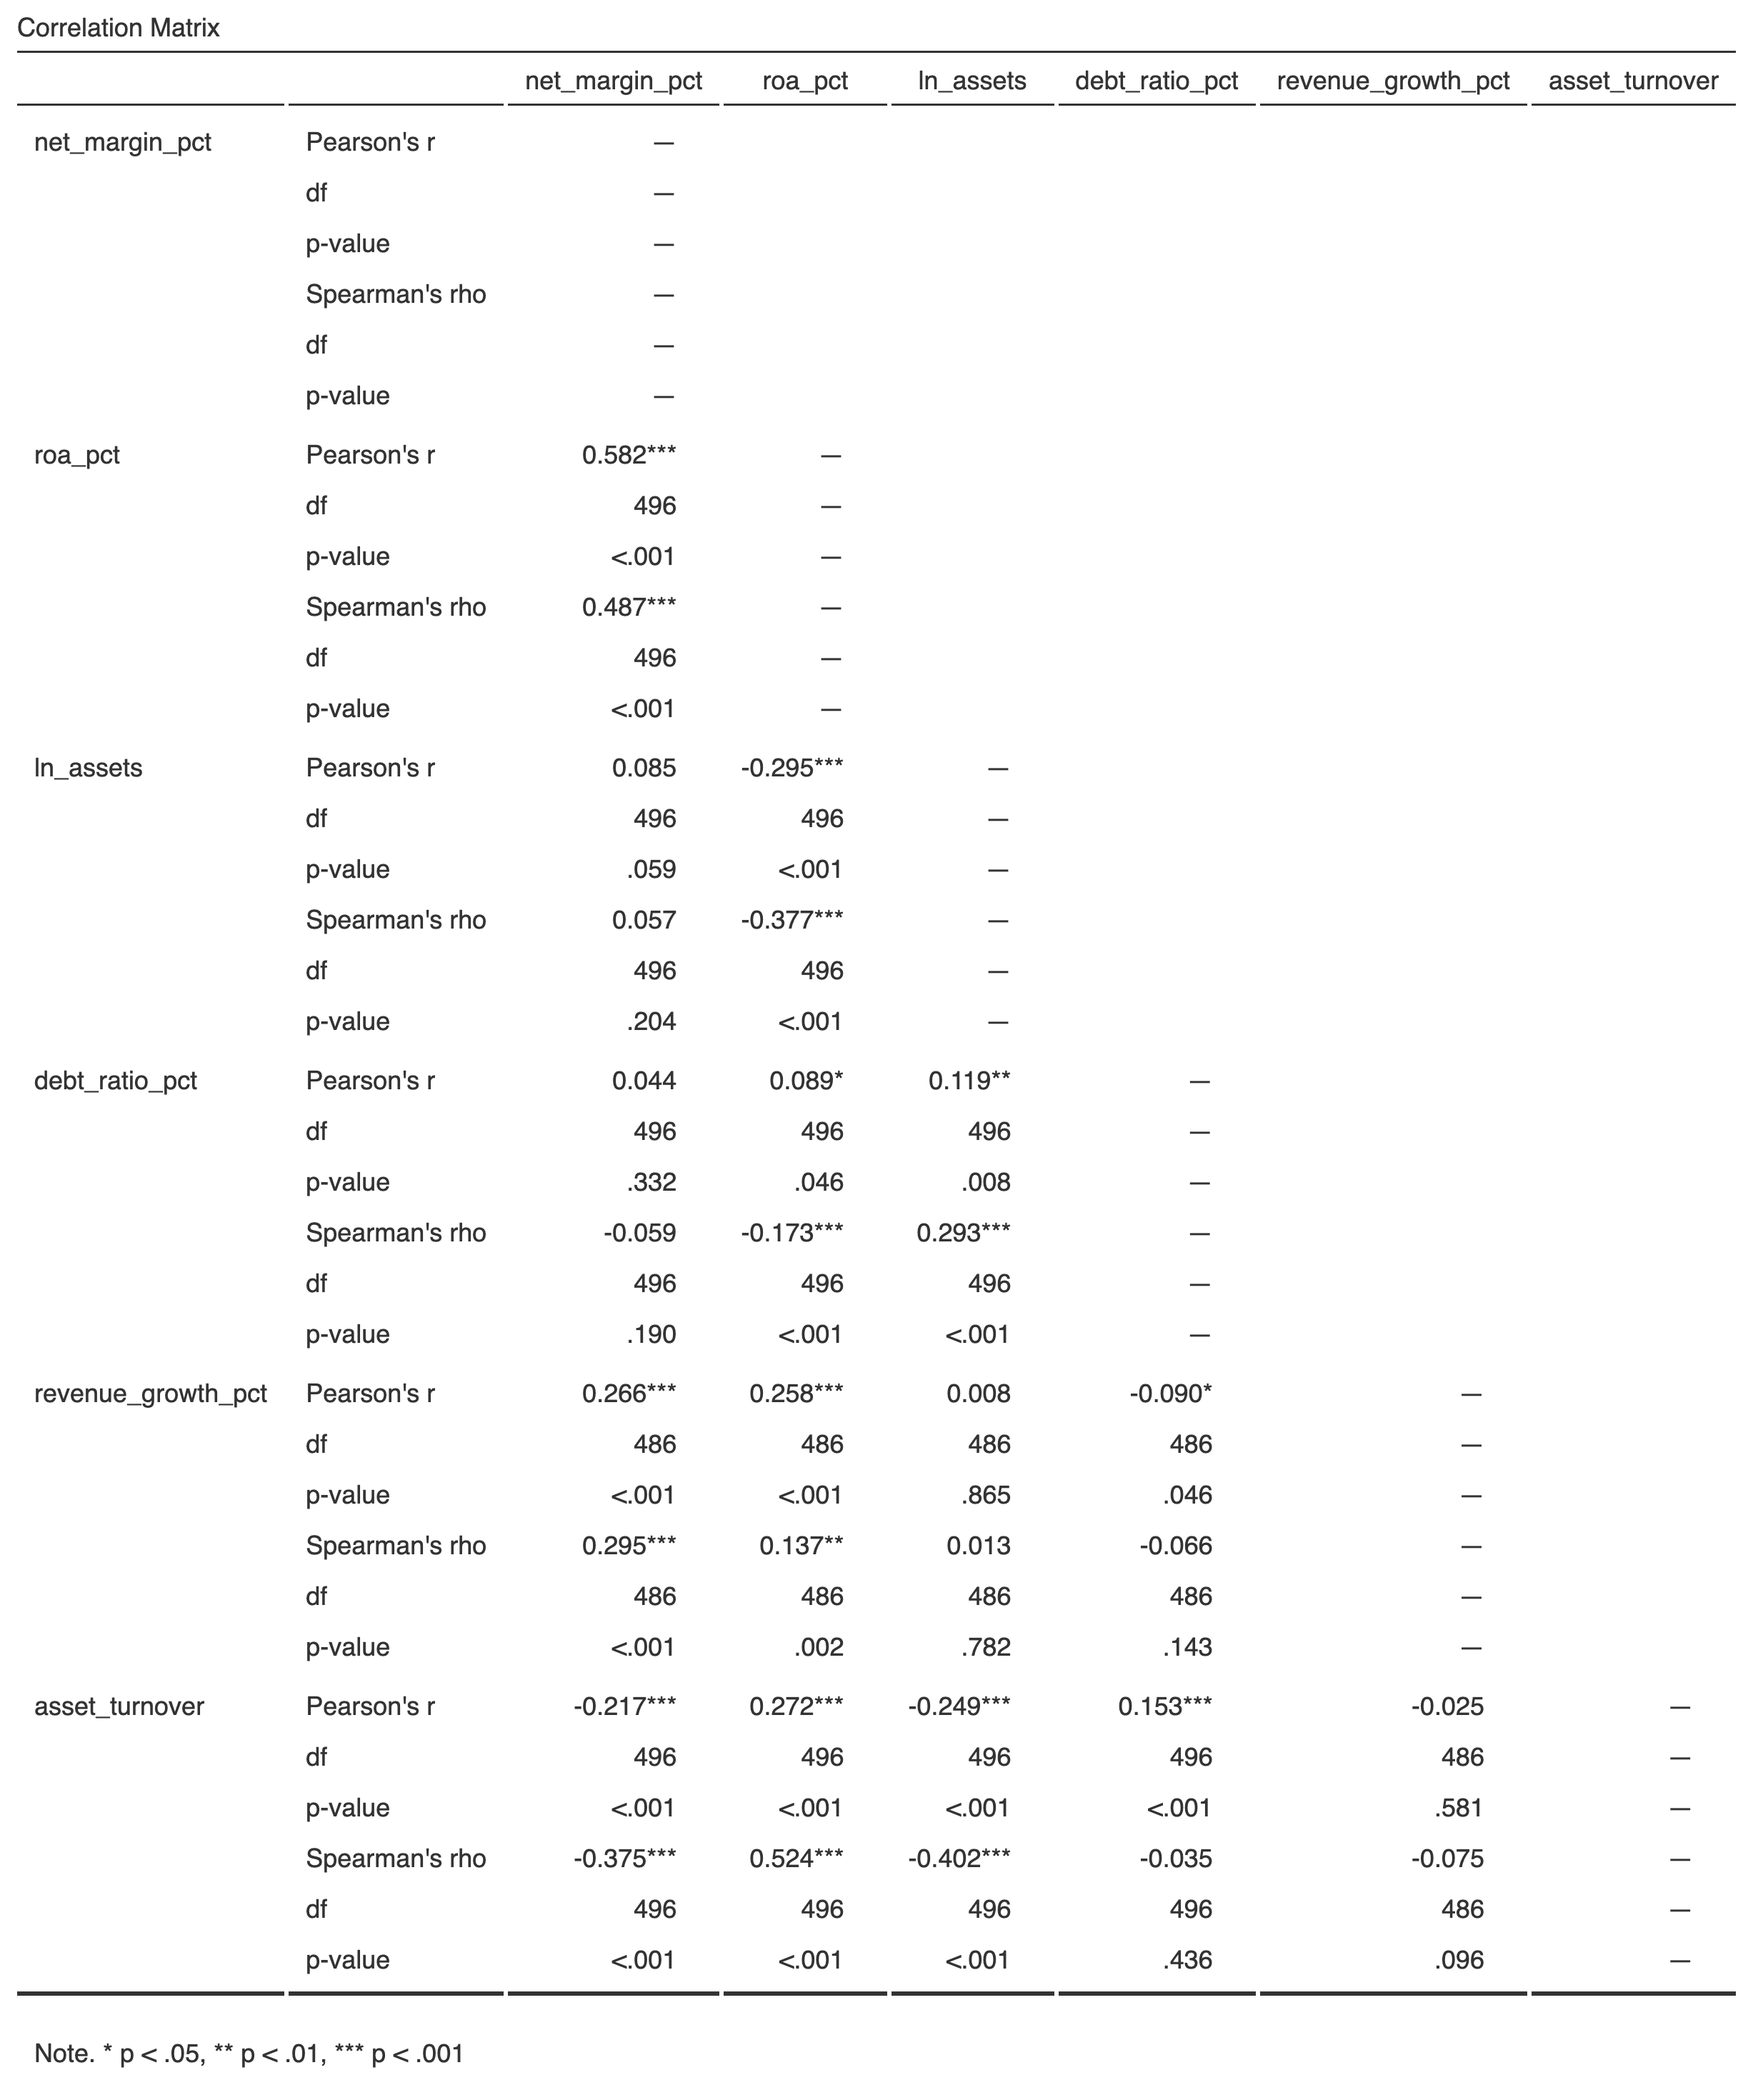
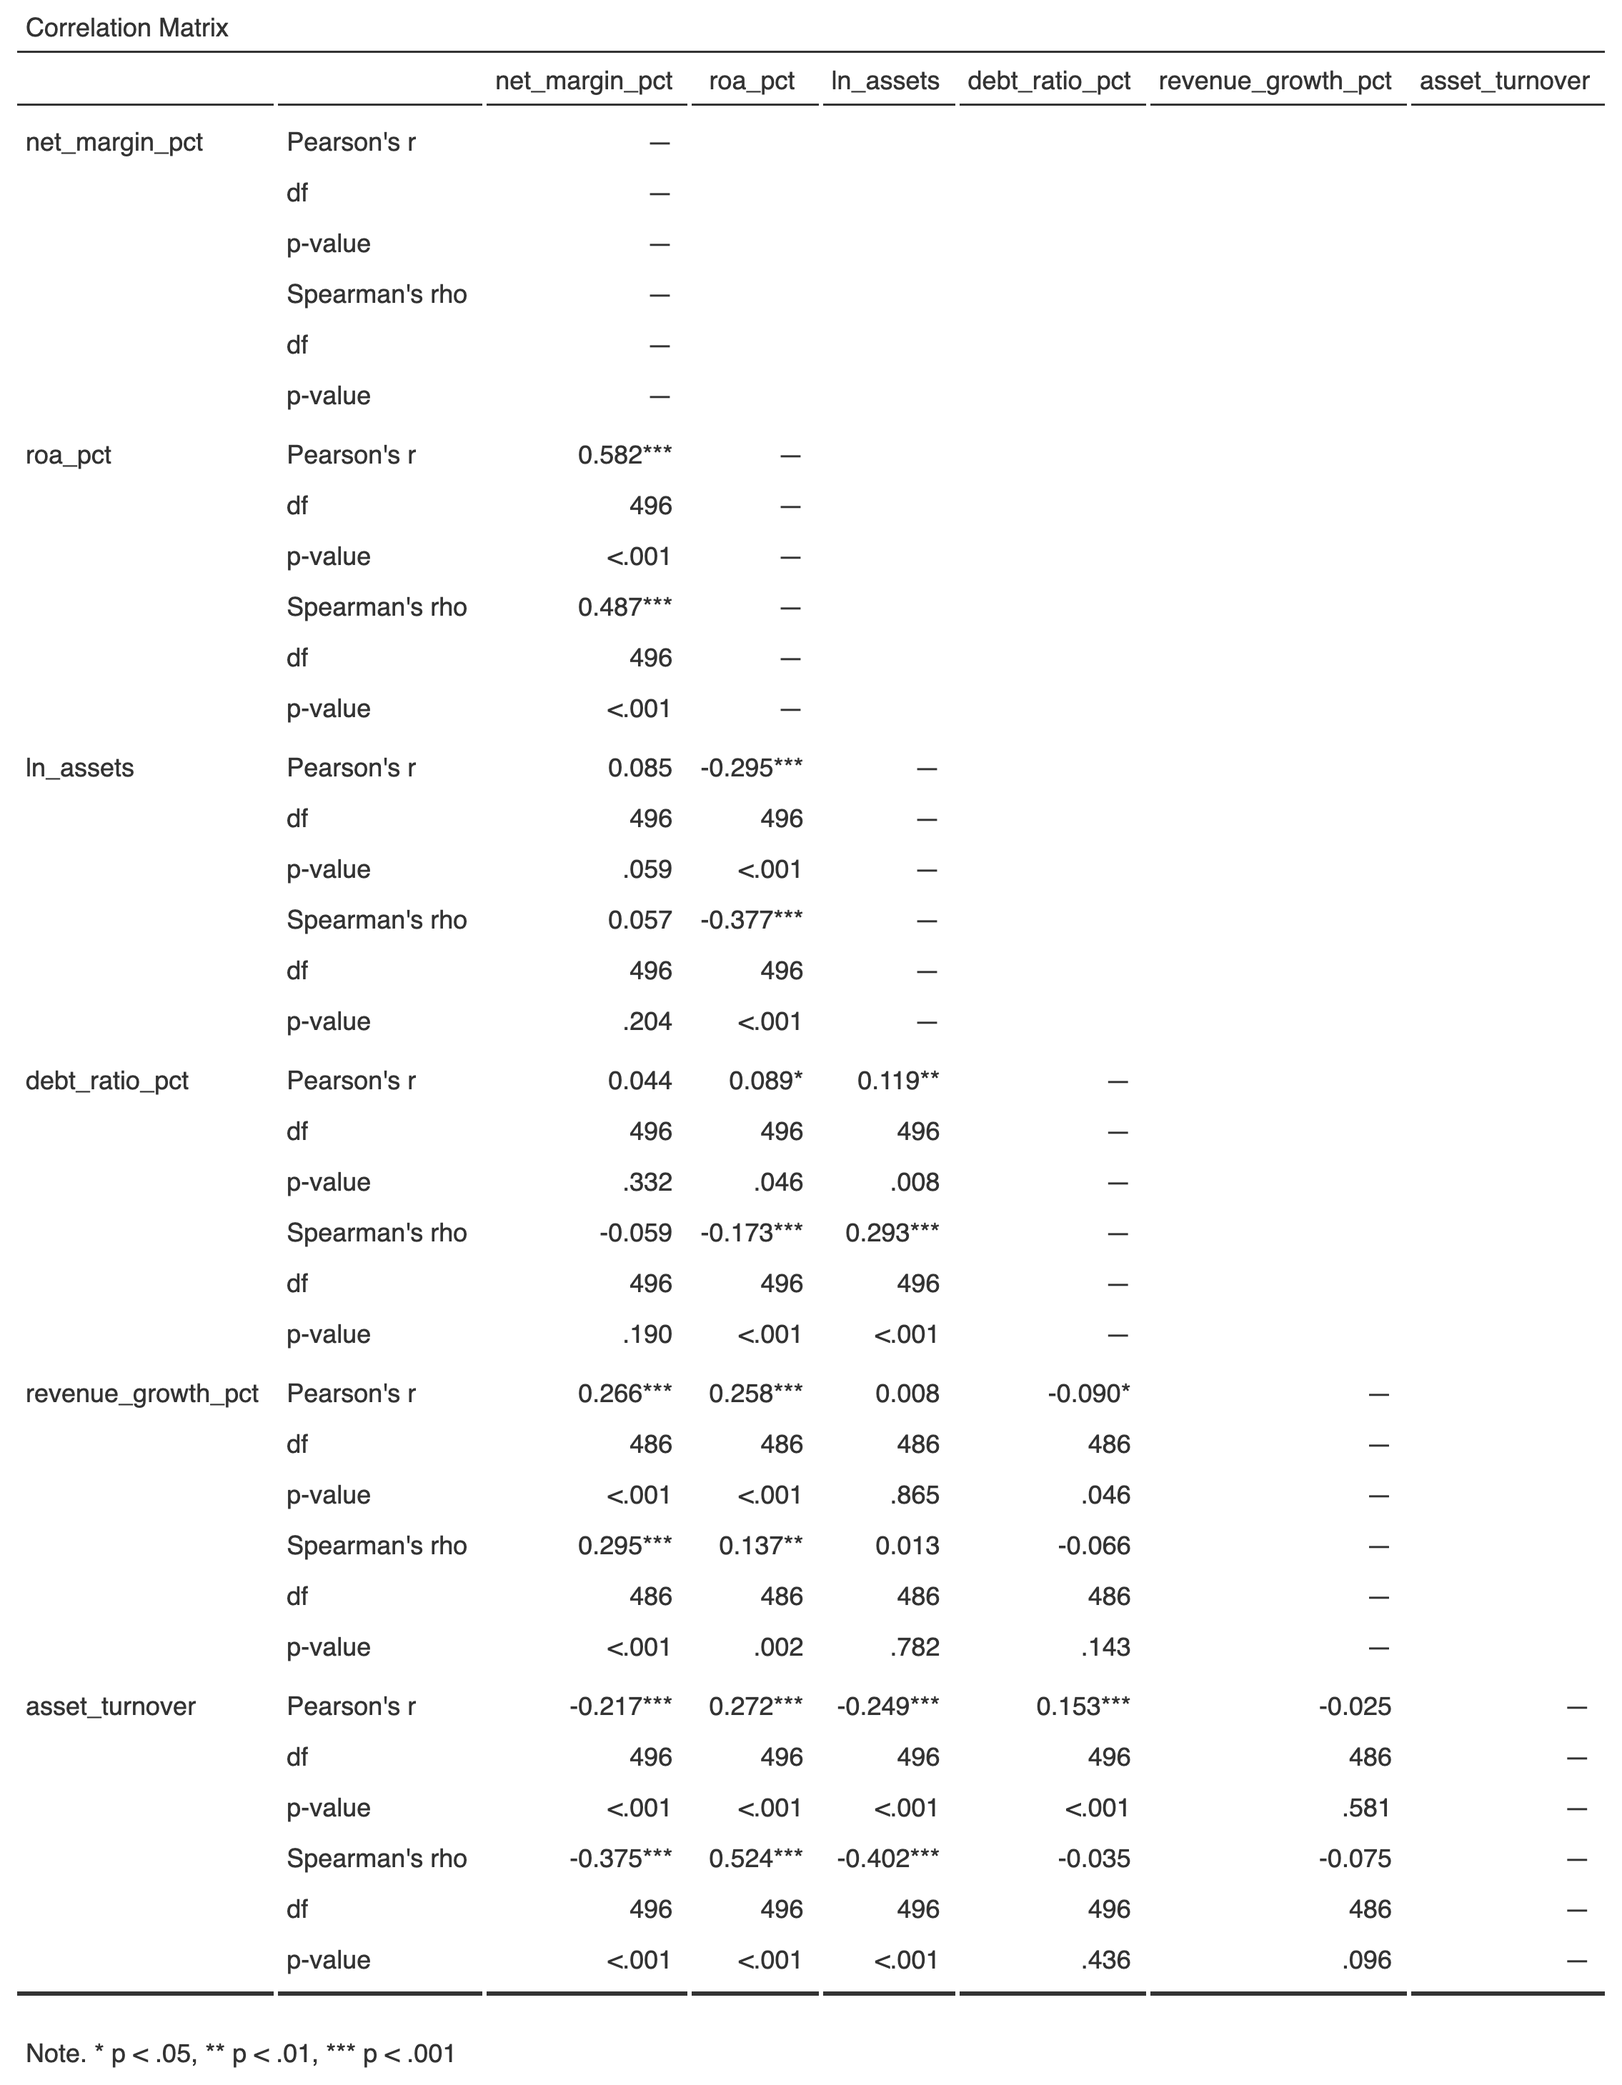
Tableaux t08 et t09 : rendu compact pour le rapport

diff --git a/02 - Collecte 2025 - Novembre 2026/src/render_jamovi_tables.py b/02 - Collecte 2025 - Novembre 2026/src/render_jamovi_tables.py
@@ -11,6 +11,8 @@ from PIL import Image, ImageChops
 OMV = pathlib.Path("data/processed/sp500_2025.omv")
 OUT = pathlib.Path("outputs/jamovi_export/tables_png")
 CHROME = "/Applications/Google Chrome.app/Contents/MacOS/Google Chrome"
+COMPACT = {8, 9}  # tableaux très larges : marges de cellules réduites pour rester lisibles dans le rapport
+COMPACT_CSS = "<style>td,th{padding-left:4px!important;padding-right:7px!important}th{white-space:normal}</style>"
 PAGE = ('<!doctype html><meta charset="utf-8"><body style="margin:0;padding:12px;'
         'font-family:Helvetica,Arial,sans-serif;font-size:12px;color:#333;background:#fff;'
         'display:inline-block">{}</body>')
@@ -43,7 +45,7 @@ def main():
             cap = caption(t)
             slug = re.sub(r"[^a-z0-9]+", "_", cap.lower()).strip("_")[:40] or "table"
             src = pathlib.Path(tmp) / f"t{k:02d}.html"
-            src.write_text(PAGE.format(t), encoding="utf-8")
+            src.write_text(PAGE.format((COMPACT_CSS if k in COMPACT else "") + t), encoding="utf-8")
             out = OUT / f"t{k:02d}_{slug}.png"
             subprocess.run([CHROME, "--headless=new", "--disable-gpu", "--hide-scrollbars",
                             "--force-device-scale-factor=3", "--window-size=1400,1800",
